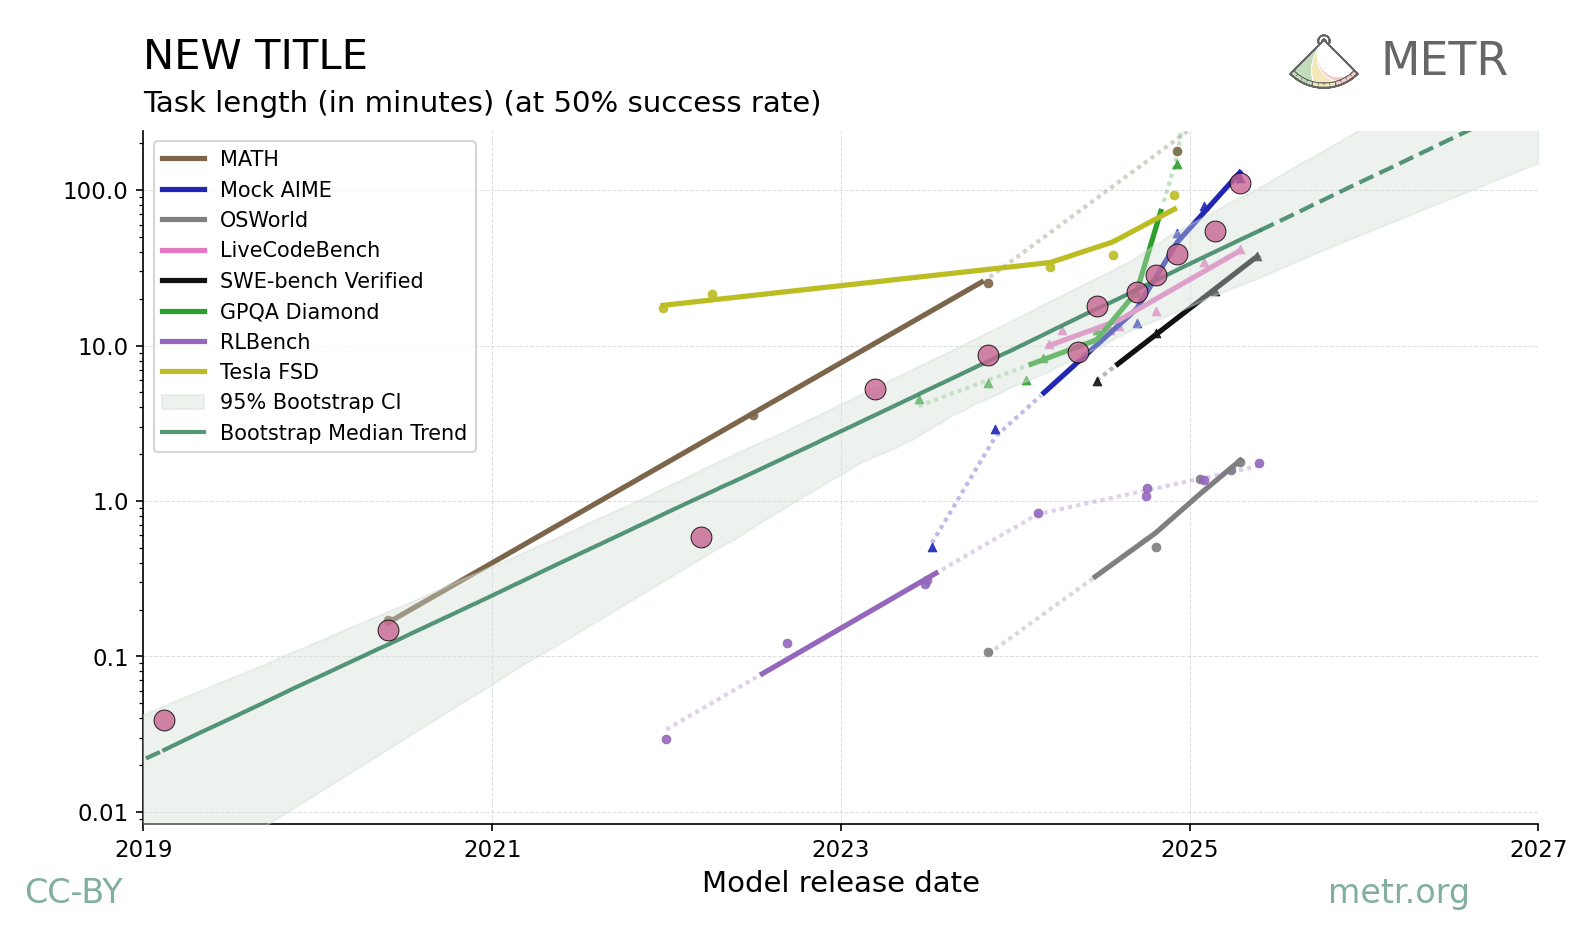
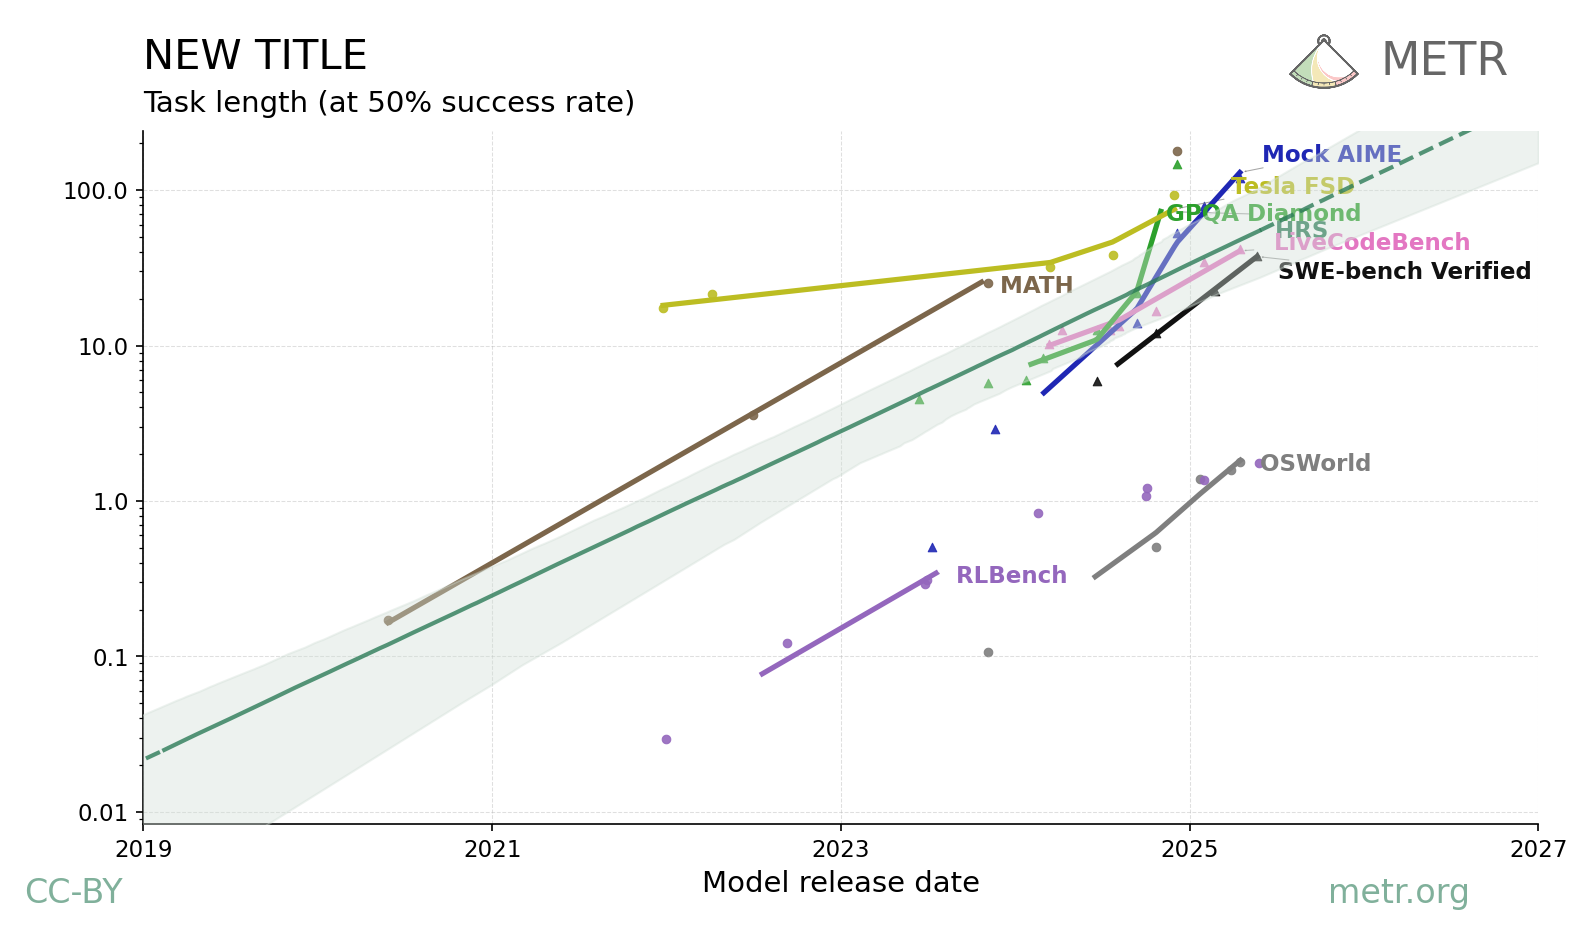
label lines instead of legend. placement still broken

diff --git a/combined.py b/combined.py
@@ -60,7 +60,7 @@ class CombinedPlotParams:
     show_points_level: ShowPointsLevel  # Which points to show on benchmark lines
     show_benchmarks: list[str] = field(default_factory=list)  # Only show these benchmarks (if specified)
     hide_benchmarks: list[str] = field(default_factory=list)  # Hide these benchmarks
-    show_dotted_lines: bool = True  # Show dotted lines for task length ranges
+    show_dotted_lines: bool = False 
     show_doubling_rate: bool = False  # Display doubling rate annotations on lines
     title: str = "Time Horizon vs. Release Date with Bootstrap CI"
     verbose: bool = False  # Print debug information
@@ -157,7 +157,7 @@ def add_bootstrap_confidence_region(
     success_percent: int = 50,
     benchmark_data: pd.DataFrame = None,
     visual_start_date: str = None,
-) -> tuple[list[float], pd.DataFrame]:
+) -> tuple[list[float], pd.DataFrame, list]:
     """
     Add bootstrap confidence intervals and median trend to the plot.
     
@@ -186,6 +186,7 @@ def add_bootstrap_confidence_region(
         Tuple of:
         - List of doubling times calculated from each bootstrap sample
         - DataFrame with agent summary data (name, date, median performance)
+        - List of text labels to be adjusted
     """
     # Extract release dates and filter agents
     dates = release_dates["date"]
@@ -214,6 +215,7 @@ def add_bootstrap_confidence_region(
     
     agent_summary_df = pd.DataFrame(agent_data)
     
+    hrs_labels = []  # Store HRS labels to return
     # Now calculate confidence bounds by fitting trends to each bootstrap sample
     n_bootstraps = len(bootstrap_results)
     
@@ -292,7 +294,7 @@ def add_bootstrap_confidence_region(
             upper_bound_minutes,
             color="#d2dfd7",  # Light green color
             alpha=0.4,
-            label=f"{int(confidence_level*100)}% Bootstrap CI",
+            label=f"_{int(confidence_level*100)}% Bootstrap CI",  # Underscore to hide from legend
             zorder=10  # Behind benchmark lines but above grid
         )
         
@@ -320,10 +322,18 @@ def add_bootstrap_confidence_region(
                     color="#2c7c58",  # Darker green
                     linestyle='-',  # Solid line
                     linewidth=2,
-                    label="Bootstrap Median Trend",
+                    label="_HRS_median",  # Underscore to hide from legend
                     zorder=60,  # Above confidence region but below main lines
                     alpha=0.8
                 )
+                # Add HRS label at the end of the solid portion
+                hrs_label_x = time_points[mask_solid][-1]
+                hrs_label_y = median_predictions[mask_solid][-1]
+                hrs_text = ax.text(hrs_label_x, hrs_label_y, "  HRS", 
+                                 color="#2c7c58", fontsize=11, 
+                                 va='center', ha='left',
+                                 weight='bold')
+                hrs_labels.append(hrs_text)
             
             # Plot dashed portions (extrapolation beyond data)
             if np.any(mask_before):
@@ -360,7 +370,7 @@ def add_bootstrap_confidence_region(
                 alpha=0.8
             )
     
-    return doubling_times, agent_summary_df
+    return doubling_times, agent_summary_df, hrs_labels
 
 
 def _add_watermark(fig, logo_path):
@@ -463,7 +473,8 @@ def plot_combined(df, output_file,
     # Create the plot
     fig, ax = plt.subplots(figsize=(12, 6))
     
-    texts = []  # Will store text labels for automatic positioning
+    texts = []  # text labels for automatic positioning
+    line_end_labels = []  # labels for benchmark lines at their endpoints
     
     # Filter benchmarks based on parameters
     if params.hide_benchmarks:
@@ -498,7 +509,7 @@ def plot_combined(df, output_file,
                 # Add bootstrap confidence region
                 # Use x-axis start for visualization to prevent cutoff
                 visual_start = params.xbound[0] if params.xbound else "2018-09-03"
-                doubling_times, agent_summary_df = add_bootstrap_confidence_region(
+                doubling_times, hrs_labels = add_bootstrap_confidence_region(
                     ax=ax,
                     bootstrap_results=bootstrap_results,
                     release_dates=release_dates,
@@ -510,6 +521,9 @@ def plot_combined(df, output_file,
                     benchmark_data=benchmark_data,
                     visual_start_date=visual_start,
                 )
+                
+                # Add HRS labels to the list of labels to adjust
+                line_end_labels.extend(hrs_labels)
                 
                 if doubling_times:
                     lower_bound = np.percentile(doubling_times, 2.5)
@@ -673,7 +687,6 @@ def plot_combined(df, output_file,
             # Calculate doubling rate using linear regression in log space
             coeffs = np.polyfit(X, Y_log, 1)
             doubling_rate = coeffs[0] * 365  # Convert from per day to per year
-            slope = coeffs[0]  # Store raw slope
             
             # Fit degree-1 spline for smooth visualization
             # k=1 (linear) prevents unrealistic curves
@@ -705,13 +718,30 @@ def plot_combined(df, output_file,
             thick = (bench == "hcast_r_s")
             
             ax.plot(x_line_date[mask_within], y_line[mask_within], color=color, linestyle='-', 
-                   linewidth=5 if thick else 2.5, label=f"{benchmark_aliases[bench]}", 
+                   linewidth=5 if thick else 2.5, label=f"_{benchmark_aliases[bench]}", 
                    zorder=100 if thick else None)
             if params.show_dotted_lines:
                 ax.plot(x_line_date[mask_above], y_line[mask_above], color=color, alpha=0.3, 
                        linestyle=densely_dotted, linewidth=2)
                 ax.plot(x_line_date[mask_below], y_line[mask_below], color=color, alpha=0.3, 
                        linestyle=densely_dotted, linewidth=2)
+            
+            # Add label at the end of the line
+            # Find the rightmost point of the line that's within the plot bounds
+            valid_mask = mask_within | (mask_above if params.show_dotted_lines else np.zeros_like(mask_above, dtype=bool))
+            if np.any(valid_mask):
+                # Get the last valid point
+                last_idx = np.where(valid_mask)[0][-1]
+                label_x = x_line_date[last_idx]
+                label_y = y_line[last_idx]
+                
+                # Create text label with benchmark name
+                label_text = benchmark_aliases[bench]
+                text = ax.text(label_x, label_y, f"  {label_text}", 
+                              color=color, fontsize=11, 
+                              va='center', ha='left',
+                              weight='bold')
+                line_end_labels.append(text)
             
             # Add text labels for first and last frontier points if requested
             if params.show_model_names and not frontier_data.empty and params.show_points_level >= ShowPointsLevel.FIRST_AND_LAST:
@@ -742,7 +772,7 @@ def plot_combined(df, output_file,
     # Labels and title
     plt.xlabel("Model release date", fontsize=14)
     # Position y-axis label above the y-axis like in reference image
-    ax.text(0.0, 1.02, "Task length (in minutes) (at 50% success rate)", 
+    ax.text(0.0, 1.02, "Task length (at 50% success rate)", 
             transform=ax.transAxes, 
             fontsize=14, 
             rotation=0, 
@@ -776,34 +806,11 @@ def plot_combined(df, output_file,
     if params.ybound is not None:
         ax.set_ylim(params.ybound)
     
-    # Create and organize legend
-    handles, labels = ax.get_legend_handles_labels()
-    
-    # Filter out internal labels (those starting with underscore)
-    visible_items = [(h, l) for h, l in zip(handles, labels) if not l.startswith('_')]
-    if visible_items:
-        handles, labels = zip(*visible_items)
-        
-        # Sort legend: benchmark lines first, then bootstrap items
-        sorted_items = []
-        bootstrap_items = []
-        for h, l in zip(handles, labels):
-            if "Bootstrap" in l:
-                bootstrap_items.append((h, l))
-            else:
-                sorted_items.append((h, l))
-        
-        # Add bootstrap items at the end
-        sorted_items.extend(bootstrap_items)
-        
-        if sorted_items:
-            handles, labels = zip(*sorted_items)
-            ax.legend(handles, labels, loc='upper left', fontsize=10, frameon=True)
-    
     # Adjust text positions to prevent overlap
-    if texts:
-        adjustText.adjust_text(texts, ax=ax,
-                            arrowprops=dict(arrowstyle='-', color='black', lw=0.5))
+    all_texts = texts + line_end_labels
+    if all_texts:
+        adjustText.adjust_text(all_texts, ax=ax,
+                            arrowprops=dict(arrowstyle='->', color='gray', lw=0.5, alpha=0.7))
     
     # Add METR watermark
     _add_watermark(fig, pathlib.Path("data/external/metr-logo.svg"))
